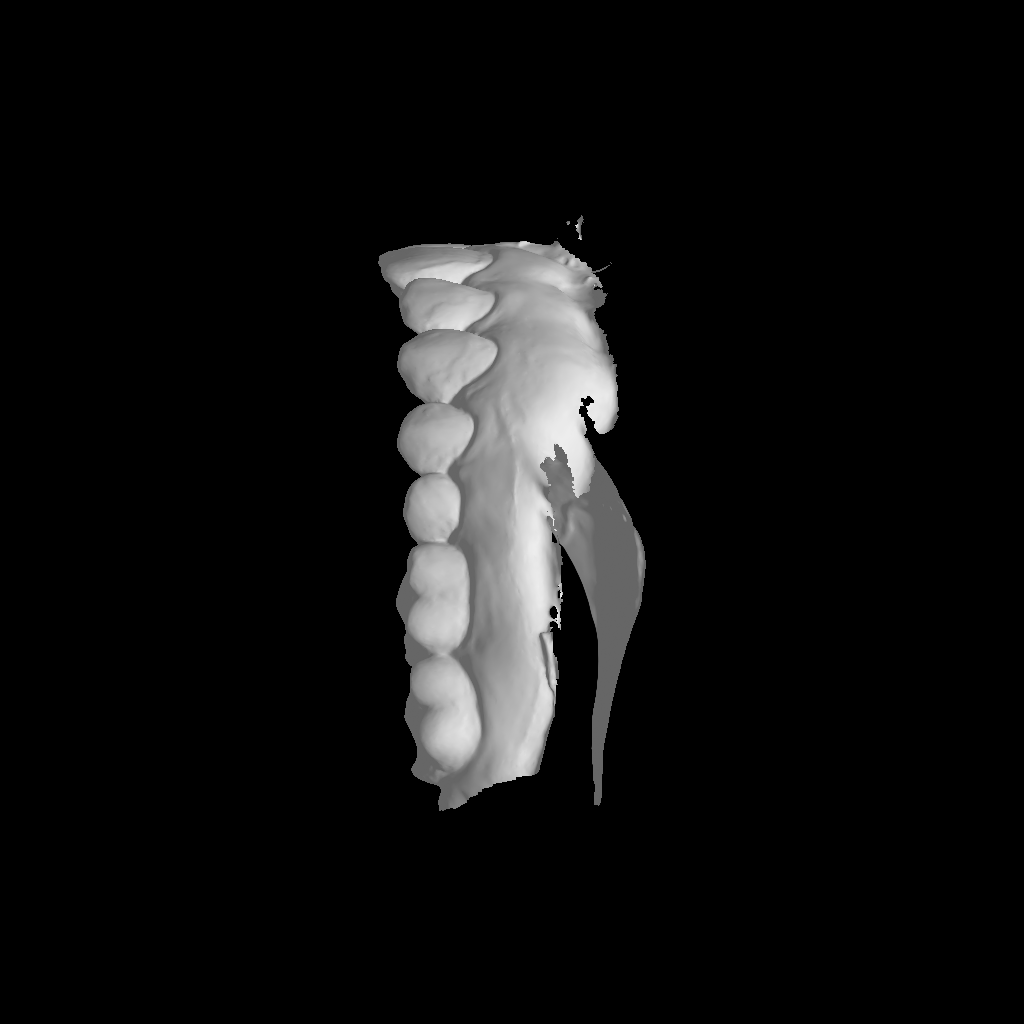
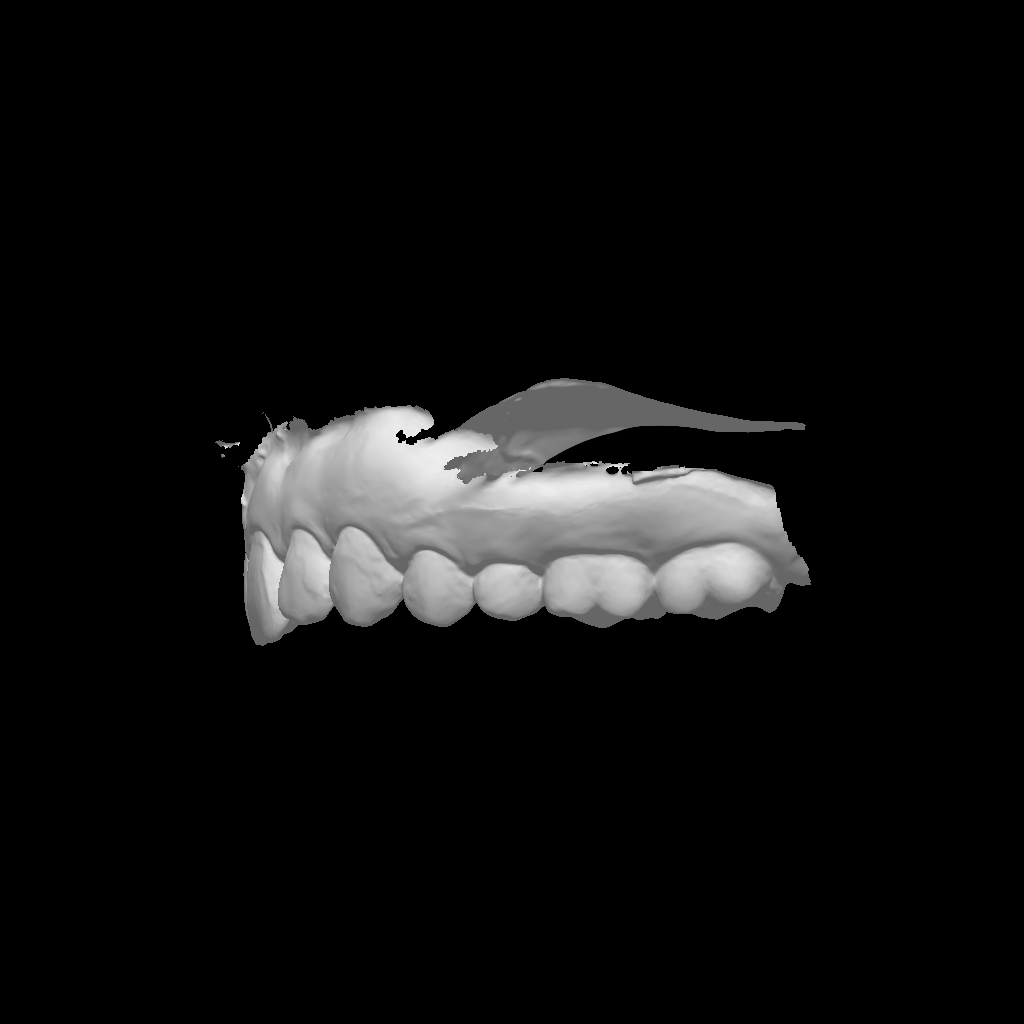
Readme

Changed region(s): [[0.2188, 0.2188, 0.8125, 0.8125]]

diff --git a/README.md b/README.md
@@ -47,6 +47,9 @@
 ## Introduction
 Vi har fået til opgave at automatisere processen for overbidsklassificering.\
 Som det er lige nu er der i tandlægepraksissen ikke en standardiseret metode, eller automatiseret metode for at undersøge en patients overbid. Nogle praksisser tager den på øjemål, nogle med en lineal, andre et røntenfotografi hvorfra det udregnes og nogle tager 3D scanninger af tænderne, og kan så udregne det derfra.\
-Der er altså mange forskellige metoder, som alle har sine fordele og ulemper, nogle er mere præcise, men også mere tidskrævende og vice versa. Hvis man kan standardisere og automatisere denne process, er der altså potentiale for både mere præcise målinger, men også tidsbesparelser.\
-Vi har i dette projekt udarbejdet et "proof of concept" Hvor vi går fra 3D filer af tænderne, til at have markeret hvor man skal måle overbiddet
+Der er altså mange forskellige metoder, som alle har sine fordele og ulemper, nogle er mere præcise, men også mere tidskrævende og vice versa. Hvis man kan standardisere og automatisere denne process, er der altså potentiale for både mere præcise målinger, men også tidsbesparelser.
+
+Vi har i dette projekt haft 2 primære fokusområder:
+1. Trænet maskinlæringsmodeller på forskellige måder, for at opnå den mest præcise model.
+2. Udarbejdet et "proof of concept" Hvor vi går fra 3D filer af tænderne, til at have markeret hvor man skal måle overbiddet. Dette kan der læses mere om under sektionen "Pipeline". Nedestående figur er en GIF af en 3D model af en overkæbe.
 ![3D GIF](Data/Brunatest_UpperJawScan.gif)
